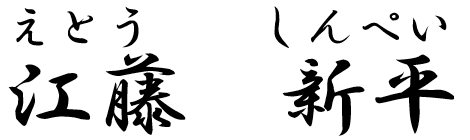
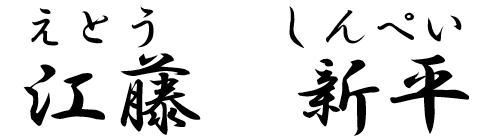
背景を設定

diff --git a/works/ClearAndForEnding/css/clear.css b/works/ClearAndForEnding/css/clear.css
@@ -1,3 +1,9 @@
+body{
+  background-image: url("../works/ClearAndForEnding/新背景.png");
+  background-repeat: no-repeat;
+  background-size: cover;
+}
+
 .relative{
   position: relative;
 }
@@ -11,8 +17,8 @@
 .name-image{
   position: absolute;
   width: 30%;
-  height: 50%;
-  top: 25%;
+  height: 55%;
+  top: 22.5%;
   left: 25%;
 }
 
